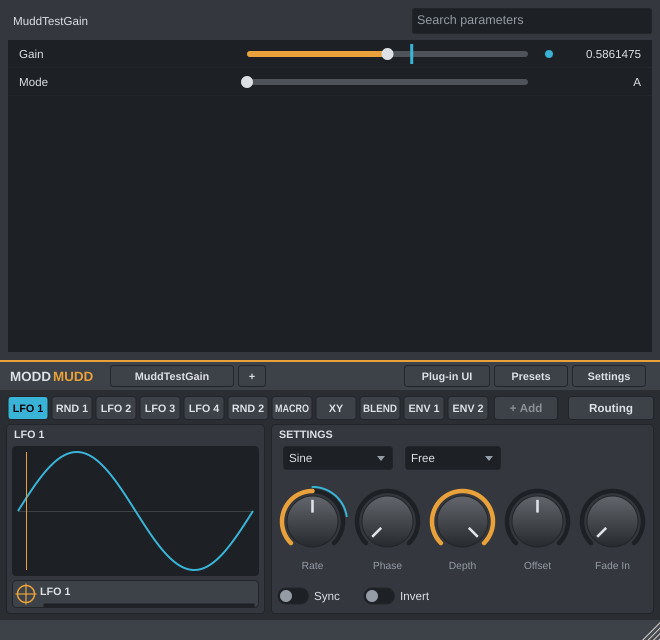
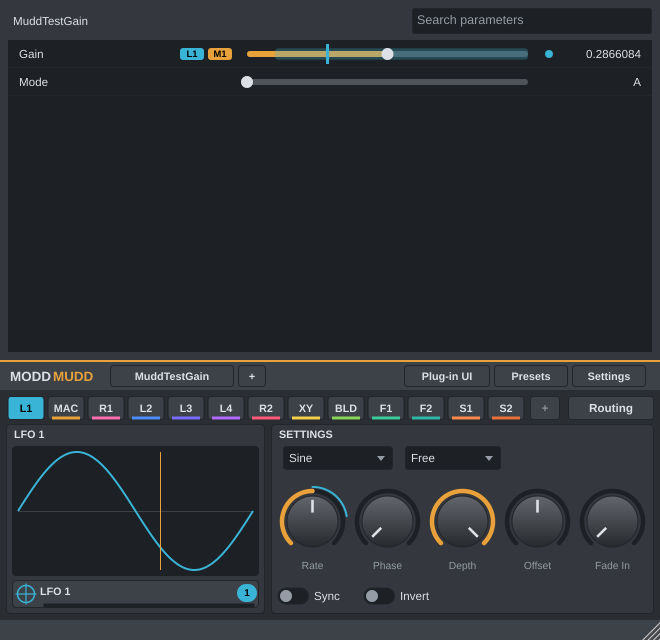
Colour-code modulators; show sources and reach on parameters
- Each modulator has a fixed colour (same in every theme), used on its
  tab, handle, value bar and matrix rows.
- Parameter rows show coloured tags for the modulators moving them and a
  band covering the range the modulation can reach.
- The hosted plug-in's preset-switch parameter is no longer offered as a
  modulation target.

Claude-Session: https://claude.ai/code/session_019KDMjCLnwsfzEXn2MVWb4G

diff --git a/Source/UI/HostedView.cpp b/Source/UI/HostedView.cpp
@@ -67,7 +67,54 @@ public:
         if (auto* param = slot->getParam (paramIndex))
             value.setText (param->getText (driven ? shown : base, 24), juce::dontSendNotification);
 
-        modCount = driven ? (int) processor.getMatrix().getConnectionsTo (destination()).size() : 0;
+        // Which modulators move this parameter, and how far they can take it.
+        std::vector<int> sources;
+        float lowest = 0.0f, highest = 0.0f;
+        DestinationSettings range;
+
+        if (driven)
+        {
+            const auto dest = destination();
+            range = processor.getMatrix().getSettings (dest);
+
+            for (auto* c : processor.getMatrix().getConnectionsTo (dest))
+            {
+                if (! c->enabled)
+                    continue;
+
+                if (std::find (sources.begin(), sources.end(), c->source) == sources.end())
+                    sources.push_back (c->source);
+
+                const bool bipolarSource = processor.getEngine().isSourceBipolar (c->source);
+                float vMin = bipolarSource ? -1.0f : 0.0f, vMax = 1.0f;
+                if (c->polarity == Polarity::unipolar) vMin = 0.0f;
+                if (c->polarity == Polarity::bipolar)  vMin = -1.0f;
+
+                const float a = c->depth * vMin + c->offset, b = c->depth * vMax + c->offset;
+                lowest += juce::jmin (a, b);
+                highest += juce::jmax (a, b);
+            }
+        }
+
+        modCount = (int) sources.size();
+
+        if (! sources.empty())
+        {
+            slider.getProperties().set ("modLo", juce::jlimit (range.rangeMin, range.rangeMax, base + lowest));
+            slider.getProperties().set ("modHi", juce::jlimit (range.rangeMin, range.rangeMax, base + highest));
+        }
+        else
+        {
+            slider.getProperties().remove ("modLo");
+            slider.getProperties().remove ("modHi");
+        }
+
+        if (sources != tagSources)
+        {
+            tagSources = sources;
+            resized();
+        }
+
         slider.repaint();
         repaint();
     }
@@ -75,7 +122,9 @@ public:
     void resized() override
     {
         auto r = getLocalBounds().reduced (6, 2);
-        name.setBounds (r.removeFromLeft (r.getWidth() * 35 / 100));
+        auto nameArea = r.removeFromLeft (r.getWidth() * 35 / 100);
+        tagArea = nameArea.removeFromRight (juce::jmin (nameArea.getWidth() / 2, tagsWidth()));
+        name.setBounds (nameArea);
         value.setBounds (r.removeFromRight (90));
         r.removeFromRight (16);
         slider.setBounds (r);
@@ -94,6 +143,25 @@ public:
         {
             g.setColour (p.active);
             g.fillEllipse (juce::Rectangle<float> (8.0f, 8.0f).withCentre ({ (float) slider.getRight() + 9.0f, getHeight() * 0.5f }));
+        }
+
+        // Coloured tags naming the modulators that move this parameter.
+        auto tags = tagArea;
+        g.setFont (MuddLookAndFeel::font (10.5f, true));
+        for (size_t i = 0; i < tagSources.size() && i < 3; ++i)
+        {
+            auto tag = tags.removeFromLeft (tagWidth (tagSources[i])).reduced (1, 6).toFloat();
+            tags.removeFromLeft (2);
+            g.setColour (sourceColour (tagSources[i]));
+            g.fillRoundedRectangle (tag, 3.0f);
+            g.setColour (juce::Colours::black);
+            g.drawText (getSourceShortName (tagSources[i]), tag, juce::Justification::centred);
+        }
+
+        if (tagSources.size() > 3)
+        {
+            g.setColour (p.textDim);
+            g.drawText ("+" + juce::String ((int) tagSources.size() - 3), tags, juce::Justification::centredLeft);
         }
 
         g.setColour (p.outline);
@@ -159,12 +227,24 @@ private:
         });
     }
 
+    static int tagWidth (int source)   { return getSourceShortName (source).length() > 2 ? 38 : 26; }
+
+    int tagsWidth() const
+    {
+        int w = 0;
+        for (size_t i = 0; i < tagSources.size() && i < 3; ++i)
+            w += tagWidth (tagSources[i]) + 2;
+        return tagSources.size() > 3 ? w + 24 : w;
+    }
+
     ModdMuddProcessor& processor;
     int slotIndex, paramIndex = 0;
     juce::Label name, value;
     MuddSlider slider;
     bool updating = false, dragOver = false;
     int modCount = 0;
+    std::vector<int> tagSources;
+    juce::Rectangle<int> tagArea;
 };
 
 //==============================================================================

diff --git a/Source/UI/Widgets.cpp b/Source/UI/Widgets.cpp
@@ -1,5 +1,6 @@
 #include "Widgets.h"
 #include "MatrixPanel.h"
+#include <iterator>
 
 namespace mm
 {
@@ -15,6 +16,22 @@ const Palette& paletteFor (const juce::Component& c)
     // crash the host on exit.
     static const Palette fallback = [] { MuddLookAndFeel lnf; return lnf.getPalette(); }();
     return fallback;
+}
+
+juce::Colour moduleColour (int module)
+{
+    static const juce::uint32 colours[] {
+        0xff39b3d6, 0xff4c8dff, 0xff7a6cff, 0xffb06cff,   // LFO 1-4
+        0xffff6fb1, 0xffff5a7a,                           // Random 1-2
+        0xffe9a23b,                                       // Macros
+        0xfff2d04b,                                       // XY pad
+        0xff8bd45a,                                       // Blender
+        0xff3ccb9a, 0xff2fb8a8,                           // Follower 1-2
+        0xffff8a4c, 0xffe8703a                            // Shaper 1-2
+    };
+    static_assert (std::size (colours) == (size_t) kNumModules, "one colour per module");
+
+    return juce::isPositiveAndBelow (module, kNumModules) ? juce::Colour (colours[module]) : juce::Colours::grey;
 }
 
 void refreshShowing (juce::Component& root)
@@ -503,9 +520,10 @@ void SourceChip::paint (juce::Graphics& g)
     g.setColour (armed ? p.active : p.outline);
     g.drawRoundedRectangle (r, 4.0f, armed ? 2.0f : 1.0f);
 
-    // Crosshair "plug" icon
+    // Crosshair "plug" icon, in the modulator's colour
+    const auto colour = sourceColour (source);
     auto icon = r.removeFromLeft (r.getHeight()).reduced (5.0f);
-    g.setColour (p.value);
+    g.setColour (colour);
     g.drawEllipse (icon, 1.5f);
     g.drawLine (icon.getCentreX(), icon.getY() - 2.0f, icon.getCentreX(), icon.getBottom() + 2.0f, 1.2f);
     g.drawLine (icon.getX() - 2.0f, icon.getCentreY(), icon.getRight() + 2.0f, icon.getCentreY(), 1.2f);
@@ -516,7 +534,7 @@ void SourceChip::paint (juce::Graphics& g)
     g.fillRect (bar);
     const bool bipolar = processor.getEngine().isSourceBipolar (source);
     const float v = juce::jlimit (-1.0f, 1.0f, shownValue);
-    g.setColour (p.active);
+    g.setColour (colour);
     if (bipolar)
     {
         const float mid = bar.getCentreX();
@@ -533,7 +551,7 @@ void SourceChip::paint (juce::Graphics& g)
     if (targetCount > 0 && getWidth() >= 70)
     {
         const auto badge = badgeArea().toFloat();
-        g.setColour (p.value);
+        g.setColour (colour);
         g.fillRoundedRectangle (badge, badge.getHeight() * 0.5f);
         g.setColour (juce::Colours::black);
         g.setFont (MuddLookAndFeel::font (11.0f, true));

diff --git a/Source/UI/MatrixPanel.cpp b/Source/UI/MatrixPanel.cpp
@@ -191,6 +191,8 @@ public:
             return;
 
         updating = true;
+        sourceIndex = c->source;
+        repaint();
         enabled.setToggleState (c->enabled, juce::dontSendNotification);
         name.setText (getSourceName (c->source) + "  >  " + describeDestination (processor, c->dest), juce::dontSendNotification);
         depth.setValue (c->depth, juce::dontSendNotification);
@@ -216,7 +218,7 @@ public:
 
         for (int i = 0; i < numColumns; ++i)
         {
-            order[i]->setBounds (cols[(size_t) i]);
+            order[i]->setBounds (i == colName ? cols[(size_t) i].withTrimmedLeft (6) : cols[(size_t) i]);
             order[i]->setVisible (cols[(size_t) i].getWidth() > 0);
         }
     }
@@ -225,6 +227,11 @@ public:
     {
         g.setColour (paletteFor (*this).outline);
         g.drawHorizontalLine (getHeight() - 1, 0.0f, (float) getWidth());
+
+        // The source's colour beside its name.
+        g.setColour (sourceColour (sourceIndex));
+        g.fillRoundedRectangle (juce::Rectangle<float> (4.0f, (float) getHeight() - 12.0f)
+                                    .withPosition ((float) name.getX() - 2.0f, 6.0f), 2.0f);
     }
 
 private:
@@ -260,7 +267,7 @@ private:
     }
 
     ModdMuddProcessor& processor;
-    int connectionId = 0;
+    int connectionId = 0, sourceIndex = 0;
     bool updating = false;
     juce::ToggleButton enabled;
     juce::Label name;

diff --git a/Source/Core/Constants.h b/Source/Core/Constants.h
@@ -155,6 +155,27 @@ inline bool moduleOwnsSource (int m, int source)
     return false;
 }
 
+inline int moduleForSource (int source)
+{
+    for (int m = 0; m < kNumModules; ++m)
+        if (moduleOwnsSource (m, source))
+            return m;
+    return -1;
+}
+
+/** Short source names for tags on parameters: L1, R2, M3, XY-X, F1, S2. */
+inline juce::String getSourceShortName (int source)
+{
+    if (source >= srcLfo0 && source < srcRandom0)    return "L" + juce::String (source - srcLfo0 + 1);
+    if (source >= srcRandom0 && source < srcMacro0)  return "R" + juce::String (source - srcRandom0 + 1);
+    if (source >= srcMacro0 && source < srcXyX)      return "M" + juce::String (source - srcMacro0 + 1);
+    if (source == srcXyX)                            return "XY-X";
+    if (source == srcXyY)                            return "XY-Y";
+    if (source >= srcEnv0 && source < srcShaper0)    return "F" + juce::String (source - srcEnv0 + 1);
+    if (source >= srcShaper0 && source < kNumSources) return "S" + juce::String (source - srcShaper0 + 1);
+    return {};
+}
+
 inline bool moduleOwnsInternal (int m, int ip)
 {
     if (m == modBlend)

diff --git a/Source/Host/HostedSlot.cpp b/Source/Host/HostedSlot.cpp
@@ -52,7 +52,16 @@ void HostedSlot::initialiseParameters()
         s.discrete = p->isDiscrete() || p->isBoolean();
         s.numSteps = p->getNumSteps();
 
-        modulatable[(size_t) i] = p != bypass && p->isAutomatable() && p->getName (64).trim().isNotEmpty();
+        // The plug-in's preset-switch parameter isn't offered: modulating it
+        // would jump between whole presets. JUCE doesn't expose the VST3
+        // flag, so recognise it by shape: one step per preset, named so.
+        const auto name = p->getName (64).trim();
+        const int numPrograms = instance->getNumPrograms();
+        const bool isProgramSwitch = numPrograms > 1 && p->getNumSteps() == numPrograms
+                                     && (name.equalsIgnoreCase ("Program") || name.equalsIgnoreCase ("Programs")
+                                         || name.equalsIgnoreCase ("Preset") || name.equalsIgnoreCase ("Presets"));
+
+        modulatable[(size_t) i] = p != bypass && ! isProgramSwitch && p->isAutomatable() && name.isNotEmpty();
 
         p->addListener (this);
     }

diff --git a/Source/UI/MuddLookAndFeel.cpp b/Source/UI/MuddLookAndFeel.cpp
@@ -199,6 +199,18 @@ void MuddLookAndFeel::drawLinearSlider (juce::Graphics& g, int x, int y, int wid
     g.setColour (slider.findColour (juce::Slider::trackColourId).withAlpha (slider.isEnabled() ? 1.0f : 0.4f));
     g.fillRoundedRectangle (fill, trackH * 0.5f);
 
+    // Range the modulation can reach (generic parameter rows)
+    if (slider.getProperties().contains ("modLo"))
+    {
+        const float lo = (float) slider.getProperties()["modLo"];
+        const float hi = (float) slider.getProperties()["modHi"];
+        auto band = track.withLeft (track.getX() + lo * track.getWidth())
+                         .withRight (track.getX() + hi * track.getWidth())
+                         .expanded (0.0f, trackH * 0.45f);
+        g.setColour (palette.active.withAlpha (0.28f));
+        g.fillRoundedRectangle (band, trackH * 0.5f);
+    }
+
     // Modulated position marker (generic parameter rows)
     if (slider.getProperties().contains ("modValue"))
     {

diff --git a/Source/UI/PluginEditor.cpp b/Source/UI/PluginEditor.cpp
@@ -28,10 +28,18 @@ public:
         const auto& p = paletteFor (*this);
         auto r = getLocalBounds().toFloat().reduced (1.0f, 0.5f);
 
-        g.setColour (selected ? p.active : (isMouseOver() ? p.panelHeader.brighter (0.1f) : p.panelHeader));
+        const auto colour = moduleColour (module);
+        g.setColour (selected ? colour : (isMouseOver() ? p.panelHeader.brighter (0.1f) : p.panelHeader));
         g.fillRoundedRectangle (r, 3.0f);
         g.setColour (hasKeyboardFocus (false) ? p.active : p.outline);
         g.drawRoundedRectangle (r, 3.0f, 1.0f);
+
+        if (! selected)
+        {
+            // The modulator's colour, so tabs match handles and parameter tags.
+            g.setColour (colour);
+            g.fillRect (r.withTop (r.getBottom() - 3.0f).reduced (4.0f, 0.0f));
+        }
 
         if (dropMarker)
         {

diff --git a/Source/UI/Widgets.h b/Source/UI/Widgets.h
@@ -22,6 +22,12 @@ struct Refreshable
     subtrees are skipped. */
 void refreshShowing (juce::Component& root);
 
+/** Each modulator has its own colour, used wherever it appears (tab,
+    handle, tags on the parameters it moves), so it's clear which modulator
+    is doing what. The same in every theme. */
+juce::Colour moduleColour (int module);
+inline juce::Colour sourceColour (int source)   { return moduleColour (moduleForSource (source)); }
+
 /** Drag-and-drop description used for modulation sources. */
 inline juce::String sourceDragId (int source)       { return "mmsrc:" + juce::String (source); }
 inline int sourceFromDragId (const juce::var& d)    { auto s = d.toString(); return s.startsWith ("mmsrc:") ? s.substring (6).getIntValue() : -1; }

diff --git a/tests/UISnapshot.cpp b/tests/UISnapshot.cpp
@@ -45,6 +45,10 @@ int main (int argc, char* argv[])
                     c.dest = mm::Destination::hosted (slot.getUid(), slot.getParamId (pi));
                     c.depth = 0.4f;
                     proc->addConnection (c);
+
+                    c.source = mm::srcMacro0;      // a second modulator on the same parameter
+                    c.depth = 0.2f;
+                    proc->addConnection (c);
                     break;
                 }
 

diff --git a/docs/ARCHITECTURE.md b/docs/ARCHITECTURE.md
@@ -159,6 +159,7 @@ The modulation panel snaps onto the hosted plug-in, so the two read as one windo
 - If the plug-in's window can be resized, resizing ModdMudd's window resizes the plug-in (within its own limits), and the panel follows. If it can't, ModdMudd's window takes the plug-in's fixed size.
 - With ModdMudd's parameter list showing instead, the window resizes freely.
 - **The modulation chain.** You add only the modulators you want ("+ Add"), drag their tabs to reorder them, and remove them with the x on the tab (or right-click, or Delete). Removing a modulator also removes its connections. Connecting a modulator that isn't in the chain, such as "Assign to macro" from the parameter list, adds it automatically. The chain and its order are saved with the session. Older sessions show every modulator that is in use.
+- **Colour coding.** Each modulator has a fixed colour, the same in every theme. It's used on its tab, its handle, its value bar and its matrix rows. In the parameter list, every modulated parameter shows coloured tags naming its sources (L1, M3, S2...), plus a band on its slider covering the full range the modulation can reach.
 - **Each source shows its targets.** A source's handle shows how many targets it has. Clicking the number (or Enter, or right-click > Show targets) opens a pop-up with a depth slider and a remove button for each target, so you don't have to open Routing.
 - **Routing.** The matrix, with every connection in one list, sits behind the Routing button, so the main view is just the plug-in and the chain.
 - Panels adapt to the width. Rows shrink towards minimum sizes, labels drop out before controls do, and the matrix hides its offset, range and smoothing columns below 820 px.

diff --git a/README.md b/README.md
@@ -28,6 +28,7 @@ Early development. Hosting, the modulation engine, the editor and state saving w
   - click a source, then move a control in the hosted plug-in's own window
   - use the Routing view
 - The preset blender can capture snapshots straight from a hosted plug-in's own presets, then morph between them.
+- Every modulator has its own colour. Modulated parameters show coloured tags for their sources, and the range the modulation can reach.
 - Each source shows how many targets it has. Click the number to adjust depths or remove targets in place.
 - Modulation resolution is per 32-sample sub-block by default, rather than per host buffer.
 - 256 DAW-automatable slots, named after the hosted parameters. MIDI learn on every ModdMudd control.
